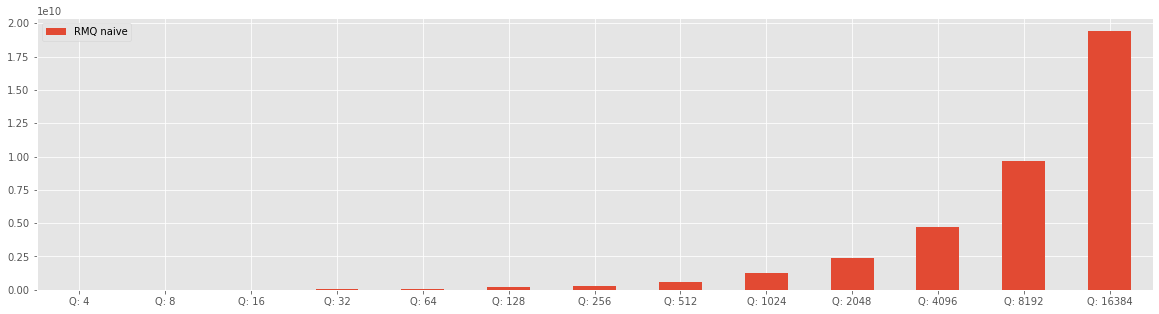
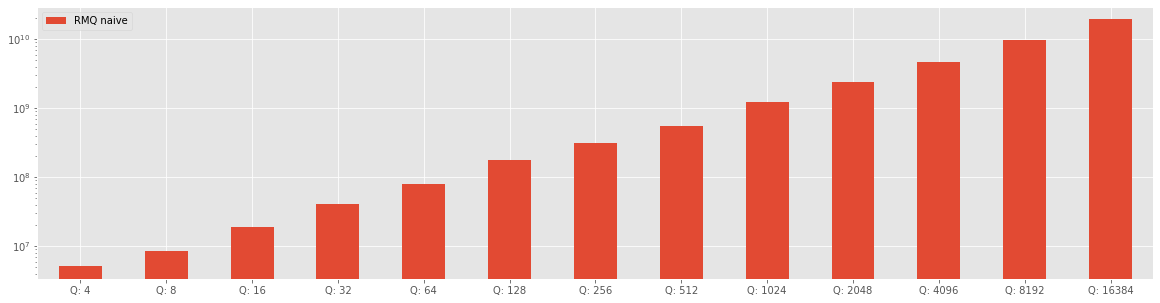
Update report benchmarks :clock11: :heavy_check_mark:

diff --git a/Appendix/report_experiment/RMQ/benchmark/results/core_chart.py b/Appendix/report_experiment/RMQ/benchmark/results/core_chart.py
@@ -42,7 +42,7 @@ def make_naive_benchmark_chart():
     fig = pandas.DataFrame({
     'RMQ naive': times,
     }, index=labels)
-    fig.plot.bar(rot=0, figsize=(20,5))
+    fig.plot.bar(rot=0, figsize=(20,5), logy=True)
 
 def make_segment_tree_and_naive_benchmark_chart():
     labels = []
@@ -59,7 +59,7 @@ def make_segment_tree_and_naive_benchmark_chart():
     'RMQ naive': times_naive,
     'RMQ Segment Tree': times_segment
     }, index=labels)
-    stl.plot.bar(rot=0, figsize=(20,5))
+    stl.plot.bar(rot=0, figsize=(20,5), logy=True)
 
 def make_segment_tree_lazy_segment_treee_benchmark_chart():
     labels = []
@@ -75,5 +75,5 @@ def make_segment_tree_lazy_segment_treee_benchmark_chart():
     stl = pandas.DataFrame({
     'RMQ Lazy Propagation': times_lazy,
     'RMQ Segment Tree': times_segment
-    }, index=labels)
-    stl.plot.bar(rot=0, figsize=(20,5))
+    }, index=labels, )
+    stl.plot.bar(rot=0, figsize=(20,5), logy=True)
